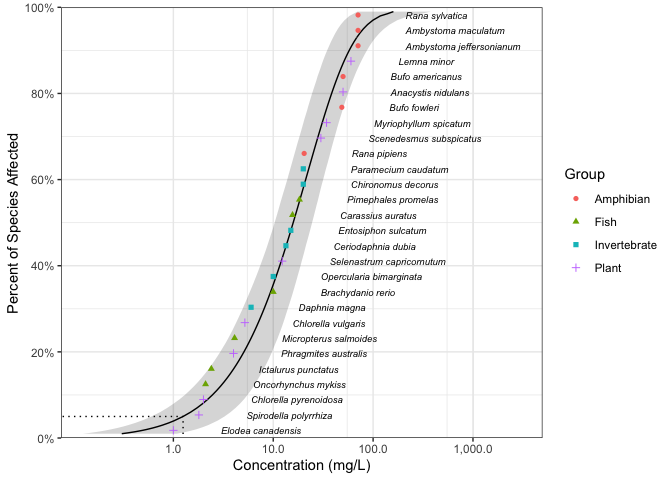
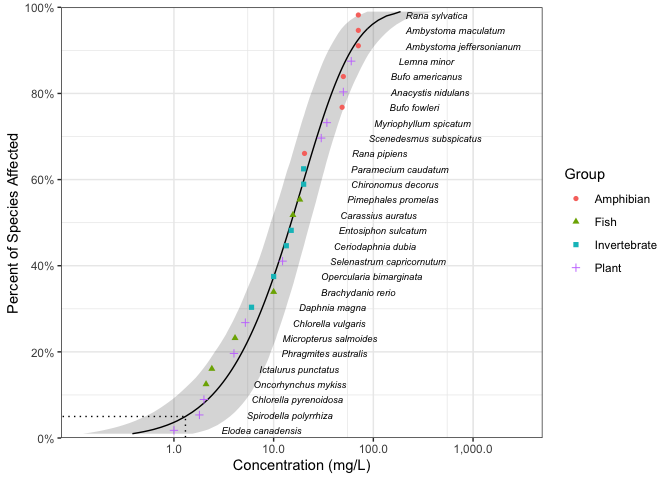
- Default distributions changed to 'burrIII2', 'gamma' and 'lnorm' from 'gamma', 'gompertz', 'lgumbel', 'llog', 'lnorm' and 'weibull' (#52)

Changed region(s): [[0.1875, 0.0, 0.75, 0.9375], [0.75, 0.0938, 0.7812, 0.125], [0.5312, 0.9062, 0.5625, 0.9375]]

diff --git a/README.md b/README.md
@@ -83,15 +83,12 @@ The goodness of fit can be assessed using `ssd_gof`
 
 ``` r
 ssd_gof(boron_dists)
-#> # A tibble: 6 x 9
-#>   dist        ad     ks    cvm   aic  aicc   bic delta weight
-#> * <chr>    <dbl>  <dbl>  <dbl> <dbl> <dbl> <dbl> <dbl>  <dbl>
-#> 1 gamma    0.441 0.117  0.0555  238.  238.  240. 0.019  0.268
-#> 2 gompertz 0.602 0.120  0.0823  238.  238.  240. 0      0.271
-#> 3 lgumbel  0.829 0.158  0.134   244.  245.  247. 6.58   0.01 
-#> 4 llog     0.487 0.0993 0.0595  241.  241.  244. 3.40   0.049
-#> 5 lnorm    0.507 0.107  0.0703  239.  240.  242. 1.42   0.133
-#> 6 weibull  0.435 0.117  0.0543  238.  238.  240. 0.014  0.269
+#> # A tibble: 3 x 9
+#>   dist        ad    ks    cvm   aic  aicc   bic delta weight
+#> * <chr>    <dbl> <dbl>  <dbl> <dbl> <dbl> <dbl> <dbl>  <dbl>
+#> 1 burrIII2 0.501 0.108 0.0629  241.  242.  244.  3.74  0.093
+#> 2 gamma    0.440 0.117 0.0554  238.  238.  240.  0     0.606
+#> 3 lnorm    0.507 0.107 0.0703  239.  240.  242.  1.40  0.301
 ```
 
 and the model-averaged 5% hazard concentration estimated using `ssd_hc`
@@ -104,8 +101,8 @@ boron_hc5 <- ssd_hc(boron_dists, nboot = 10000)
 print(boron_hc5)
 #> # A tibble: 1 x 5
 #>   percent   est    se   lcl   ucl
-#>     <int> <dbl> <dbl> <dbl> <dbl>
-#> 1       5  1.25 0.736 0.604  3.20
+#> *   <int> <dbl> <dbl> <dbl> <dbl>
+#> 1       5  1.30 0.855 0.504  3.53
 ```
 
 Model-averaged predictions complete with confidence intervals can be
@@ -130,7 +127,7 @@ The ssdtools manual is available at
 <https://bcgov.github.io/ssdtools/articles/ssdtools-manual.html>.
 
 A shiny webpage developed for non-R-users is available at
-<https://poissonconsulting.shinyapps.io/ssdtools/>.
+<https://bcgov-env.shinyapps.io/ssdtools/>.
 
 The ssdtools package was developed as a result of earlier drafts of:
 

diff --git a/NEWS.md b/NEWS.md
@@ -1,3 +1,5 @@
+- Default distributions changed to 'burrIII2', 'gamma' and 'lnorm' from
+'gamma', 'gompertz', 'lgumbel', 'llog', 'lnorm' and 'weibull'.
 - `ssd_fit_dists()` now checks if standard errors computable.
 - Added `sdist(x)` functionality to set starting values for distributions.
 - Added Burr Type-III Three-Parameter Distribution (`burrIII3`).
